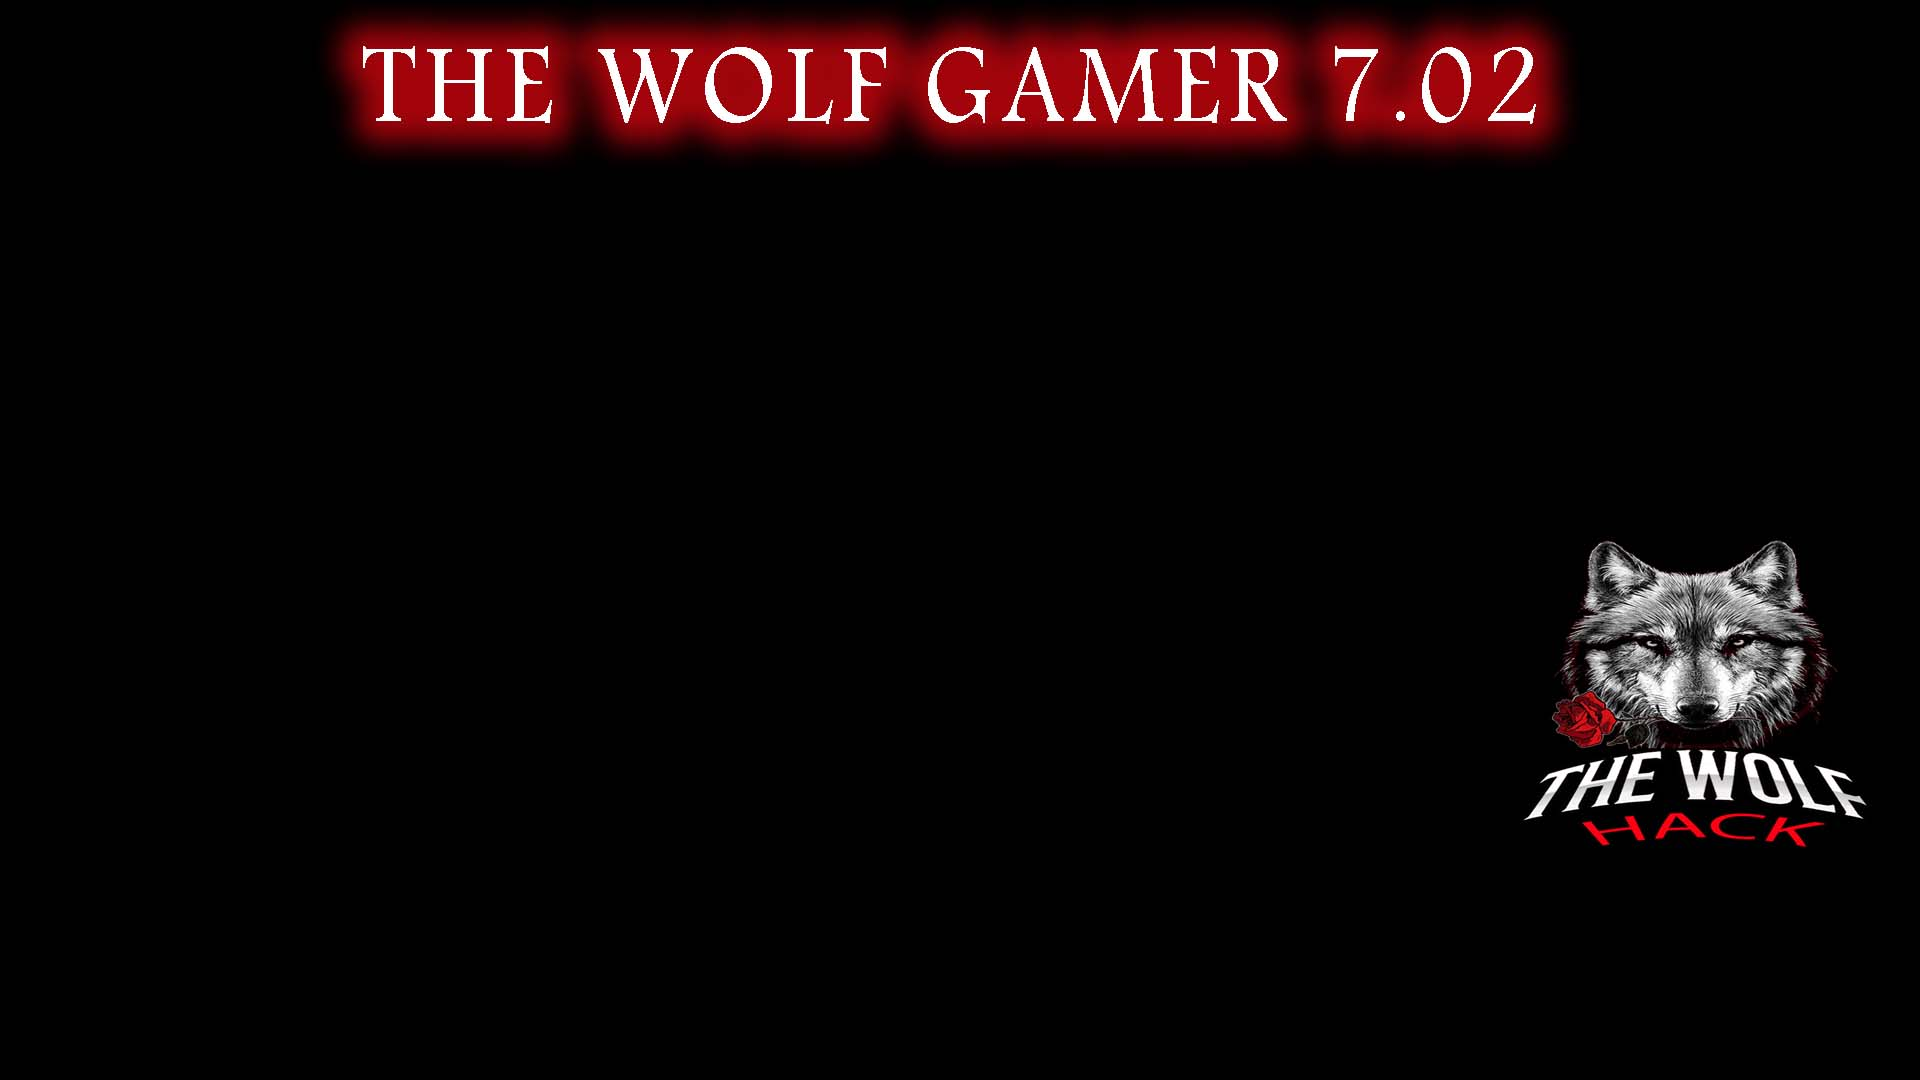
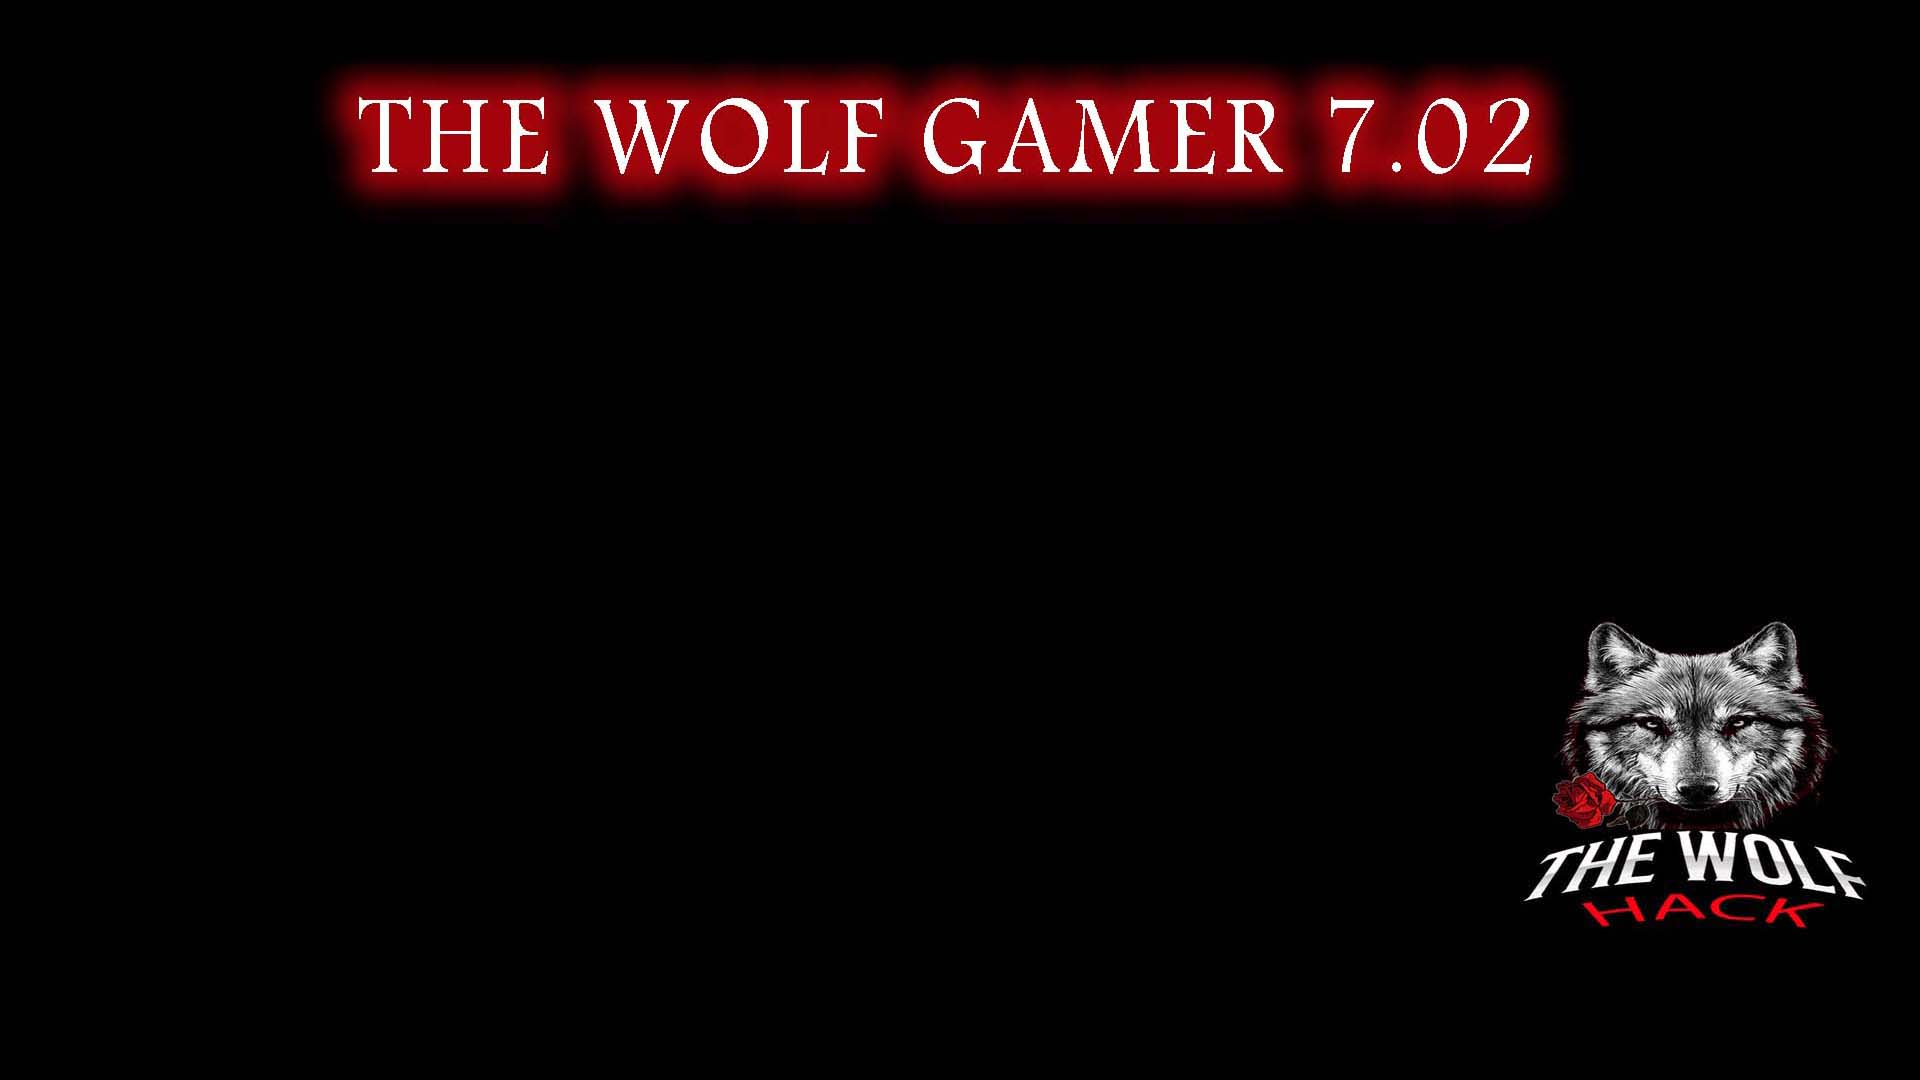
702

Changed region(s): [[0.1562, 0.0, 0.8438, 0.2139], [0.7812, 0.4889, 0.9688, 0.8556]]

diff --git a/index.html b/index.html
@@ -21,7 +21,7 @@
 		  padding: .5em;
 		  text-decoration: none;
 		  text-align: center;
-		  margin-top: 80px;
+		  margin-top: 130px;
 		  margin-bottom: 0px;
 		  font-family: system-ui;
 		}
@@ -65,13 +65,20 @@
 		  padding-top: 5px;
 		}
 
-		img:hover {transform: scale(1.2);/* (100% zoom - Note: if the zoom is too large, it will go outside of the viewport) */}
-        .center {
-		 display: block;
-		 margin-left: auto;
-		 margin-right: auto;
-        }
-	</style>
+.pointer 
+		 {cursor: pointer;}
+    	img:hover 
+		{transform: scale(1.2); 
+		/* (100% zoom - Note: if the zoom is too large,
+		it will go outside of the viewport) */}
+	
+.center{
+    	display:
+    	 block;margin-left:
+    	 auto;margin-right:
+    	 auto;}
+
+.	</style>
 <head>
 <meta charset="utf-8">
 		<script>
